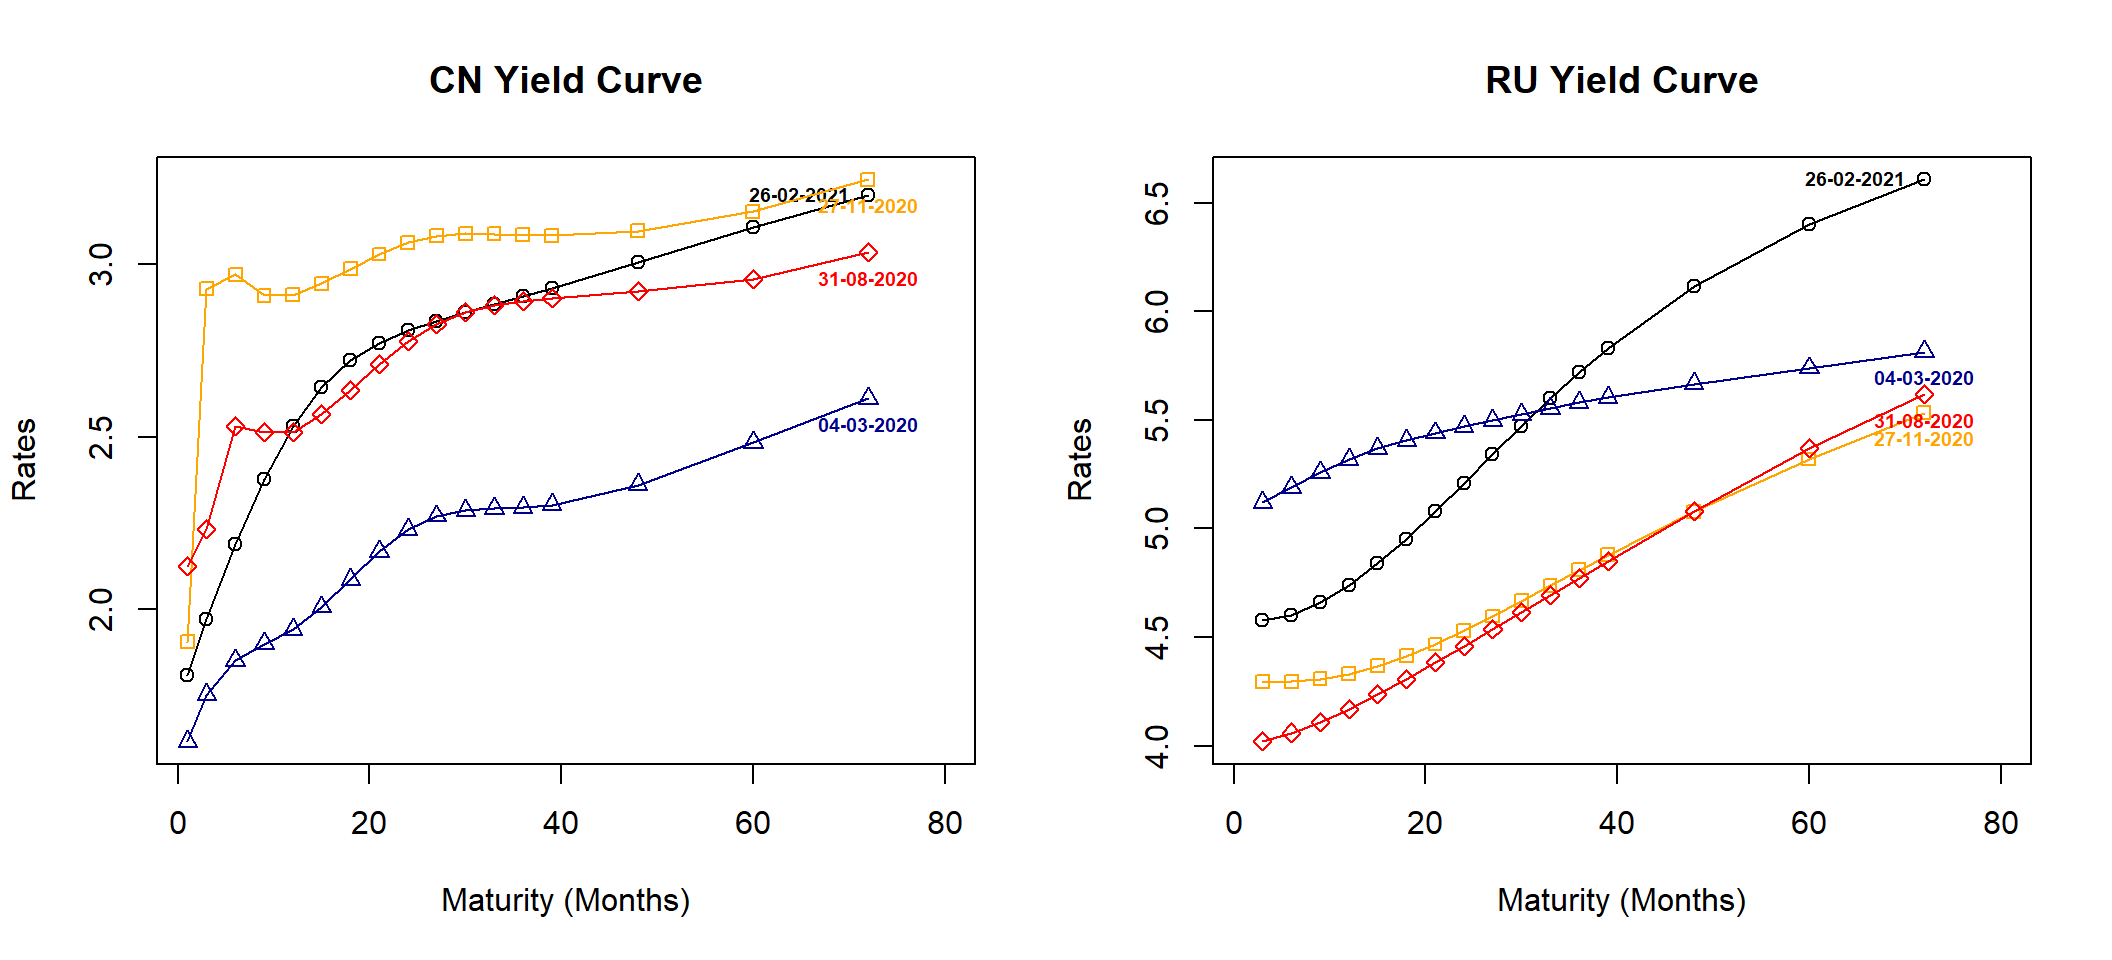
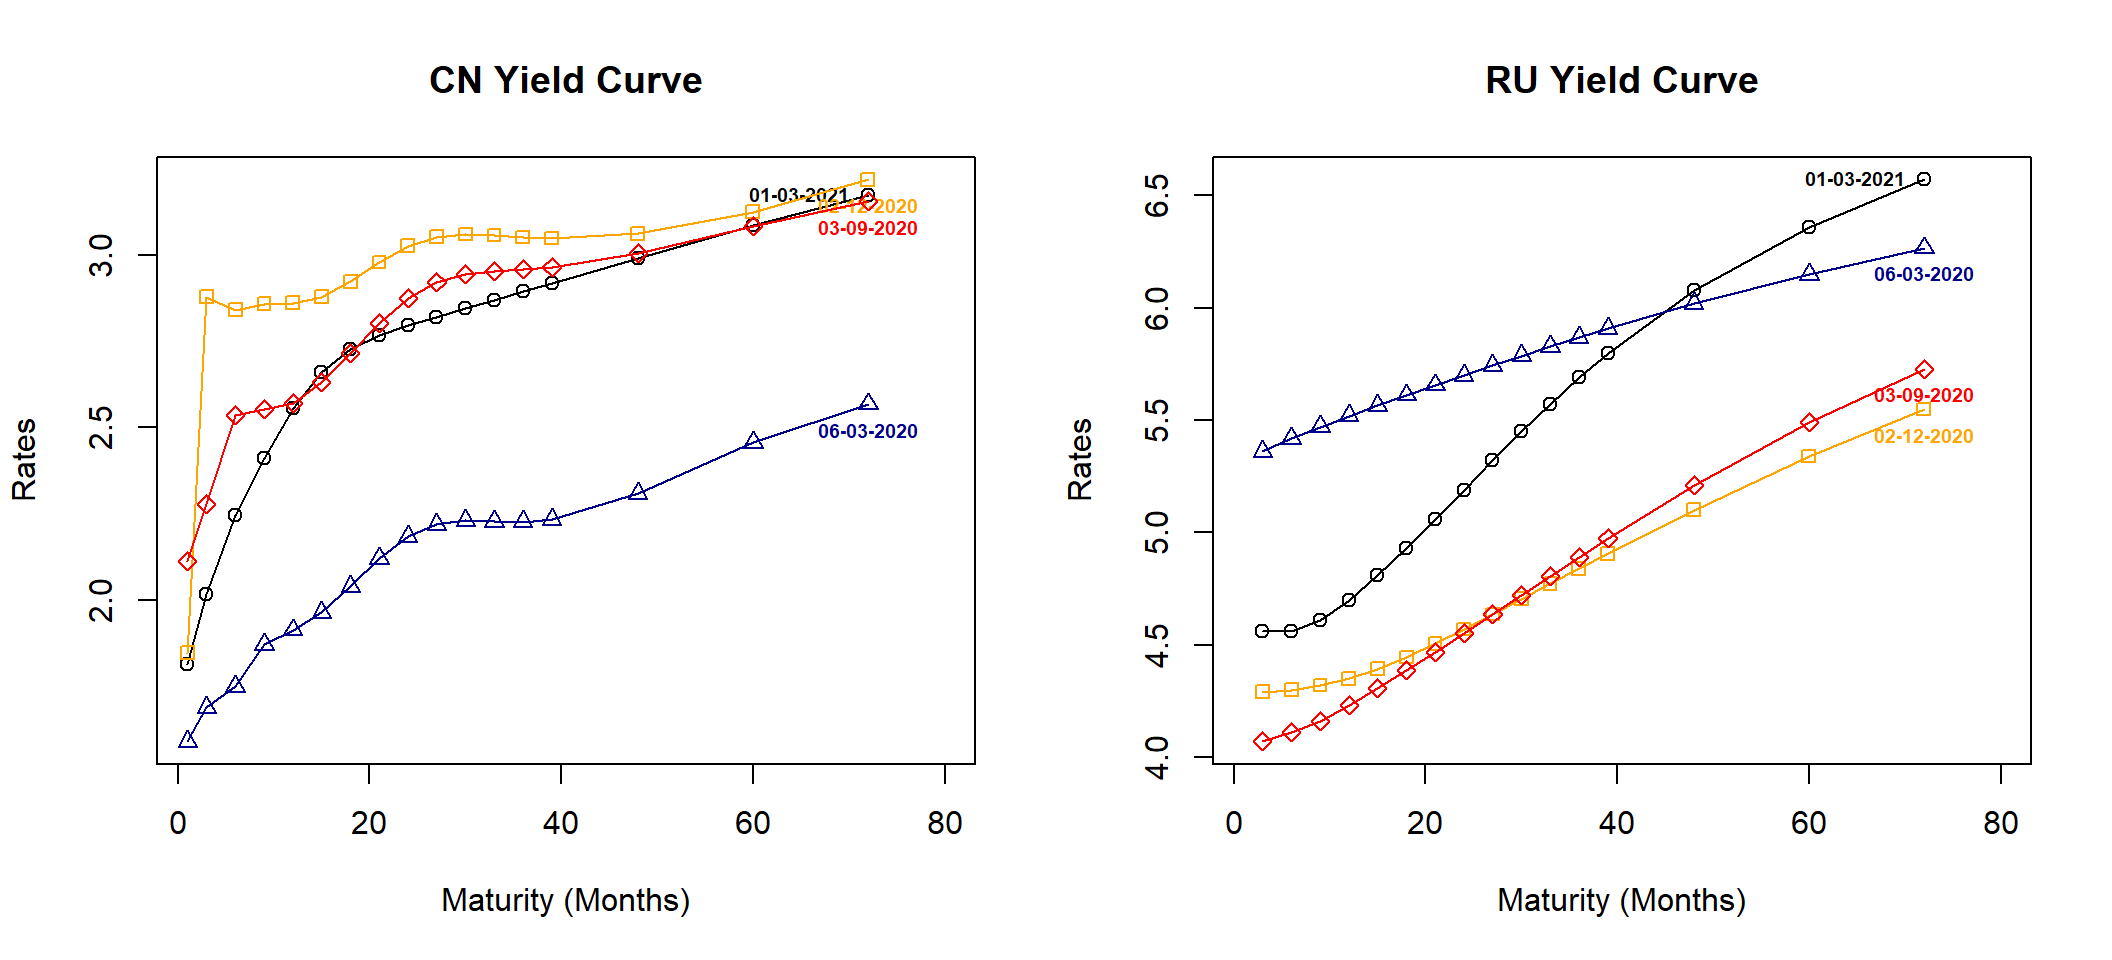
Add files via upload

diff --git a/index.html b/index.html
@@ -10,6 +10,7 @@
 
 
 
+<meta name="date" content="2021-02-03" />
 
 <title>Yield Curves of BR, US, CN, and RU</title>
 
@@ -326,7 +327,7 @@ $(document).ready(function () {
 
 
 <h1 class="title toc-ignore">Yield Curves of BR, US, CN, and RU</h1>
-<h4 class="date">27/02/2021</h4>
+<h4 class="date">02/03/2021</h4>
 
 </div>
 
